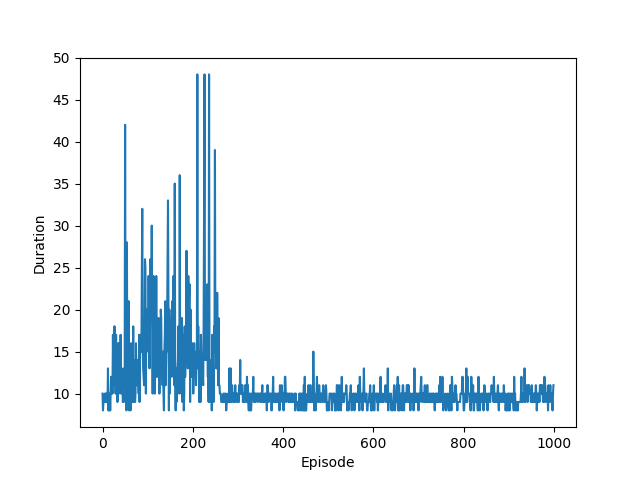
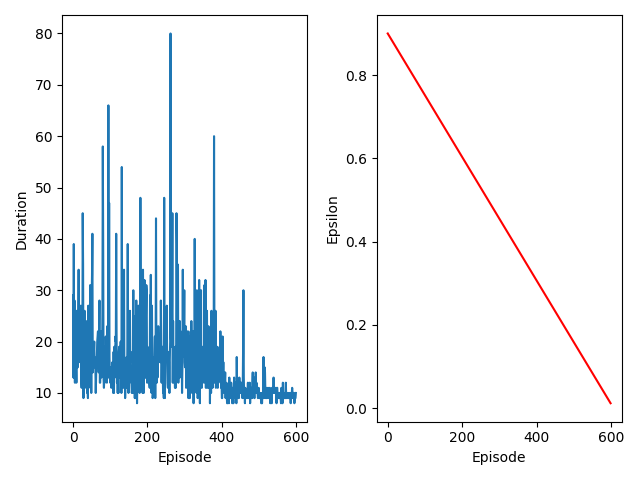
Training loop with SGD optimizer and cuda device, overfitting example.

diff --git a/CartPoleTrain.py b/CartPoleTrain.py
@@ -10,18 +10,19 @@ from torch import from_numpy, as_tensor, float32
 
 device = torch.device("cuda" if torch.cuda.is_available() else "cpu")
 
-learning_rate = 0.001
-eps = 0.05
+learning_rate = 0.0005
+eps_0 = 0.9
+eps_N = 0.01
 gamma = 0.999
-episode_count = 1000
+episode_count = 600
 
 
 class DQN(nn.Module):
     def __init__(self):
         super(DQN, self).__init__()
         self.model = nn.Sequential(
-            nn.Linear(4, 5),
-            nn.Linear(5, 2),
+            nn.Linear(4, 4),
+            nn.Linear(4, 2),
         )
 
     # x could be a single state or a batch
@@ -31,15 +32,16 @@ class DQN(nn.Module):
 
 class Agent(object):
 
-    def __init__(self, action_space, model, eps):
+    def __init__(self, action_space, model, eps_0, esp_N, N):
         self.action_space = action_space
         self.model = model
-        self.eps = eps
+        n = np.arange(0, N)
+        self.eps = eps_0 - (eps_0 - eps_N) / N * n
 
-    def get_action(self, state):
+    def get_action(self, state, episode):
         with torch.no_grad():
             q_values = self.model(state)
-            if np.random.uniform() < self.eps:
+            if np.random.uniform() < self.eps[episode]:
                 return self.action_space.sample(), q_values
             else:
                 action = q_values.argmax()
@@ -62,15 +64,14 @@ def main():
     env = gym.make('CartPole-v0')
     env = wrappers.Monitor(env, directory='./tmp', force=True)
 
-    agent = Agent(env.action_space, model, eps)
+    agent = Agent(env.action_space, model, eps_0, eps_N, episode_count)
     episode_durations = []
 
     for i in range(episode_count):
         state = to_tensor(env.reset())
         for t in count():
-            env.render()
-
-            action, q_values = agent.get_action(state)
+            # env.render()
+            action, q_values = agent.get_action(state, i)
             next_state, reward, done, _ = env.step(action)
 
             # Compute prediction error
@@ -90,9 +91,15 @@ def main():
 
     # Close the env and write monitor result info to disk
     env.close()
-    plt.plot(episode_durations)
-    plt.xlabel('Episode')
-    plt.ylabel('Duration')
+
+    fig, (ax0, ax1) = plt.subplots(1, 2)
+    ax0.plot(episode_durations)
+    ax0.set_xlabel('Episode')
+    ax0.set_ylabel('Duration')
+    ax1.plot(agent.eps, color='r')
+    ax1.set_xlabel('Episode')
+    ax1.set_ylabel('Epsilon')
+    plt.tight_layout()
     plt.savefig('./tmp/training.png')
     plt.show()
 
